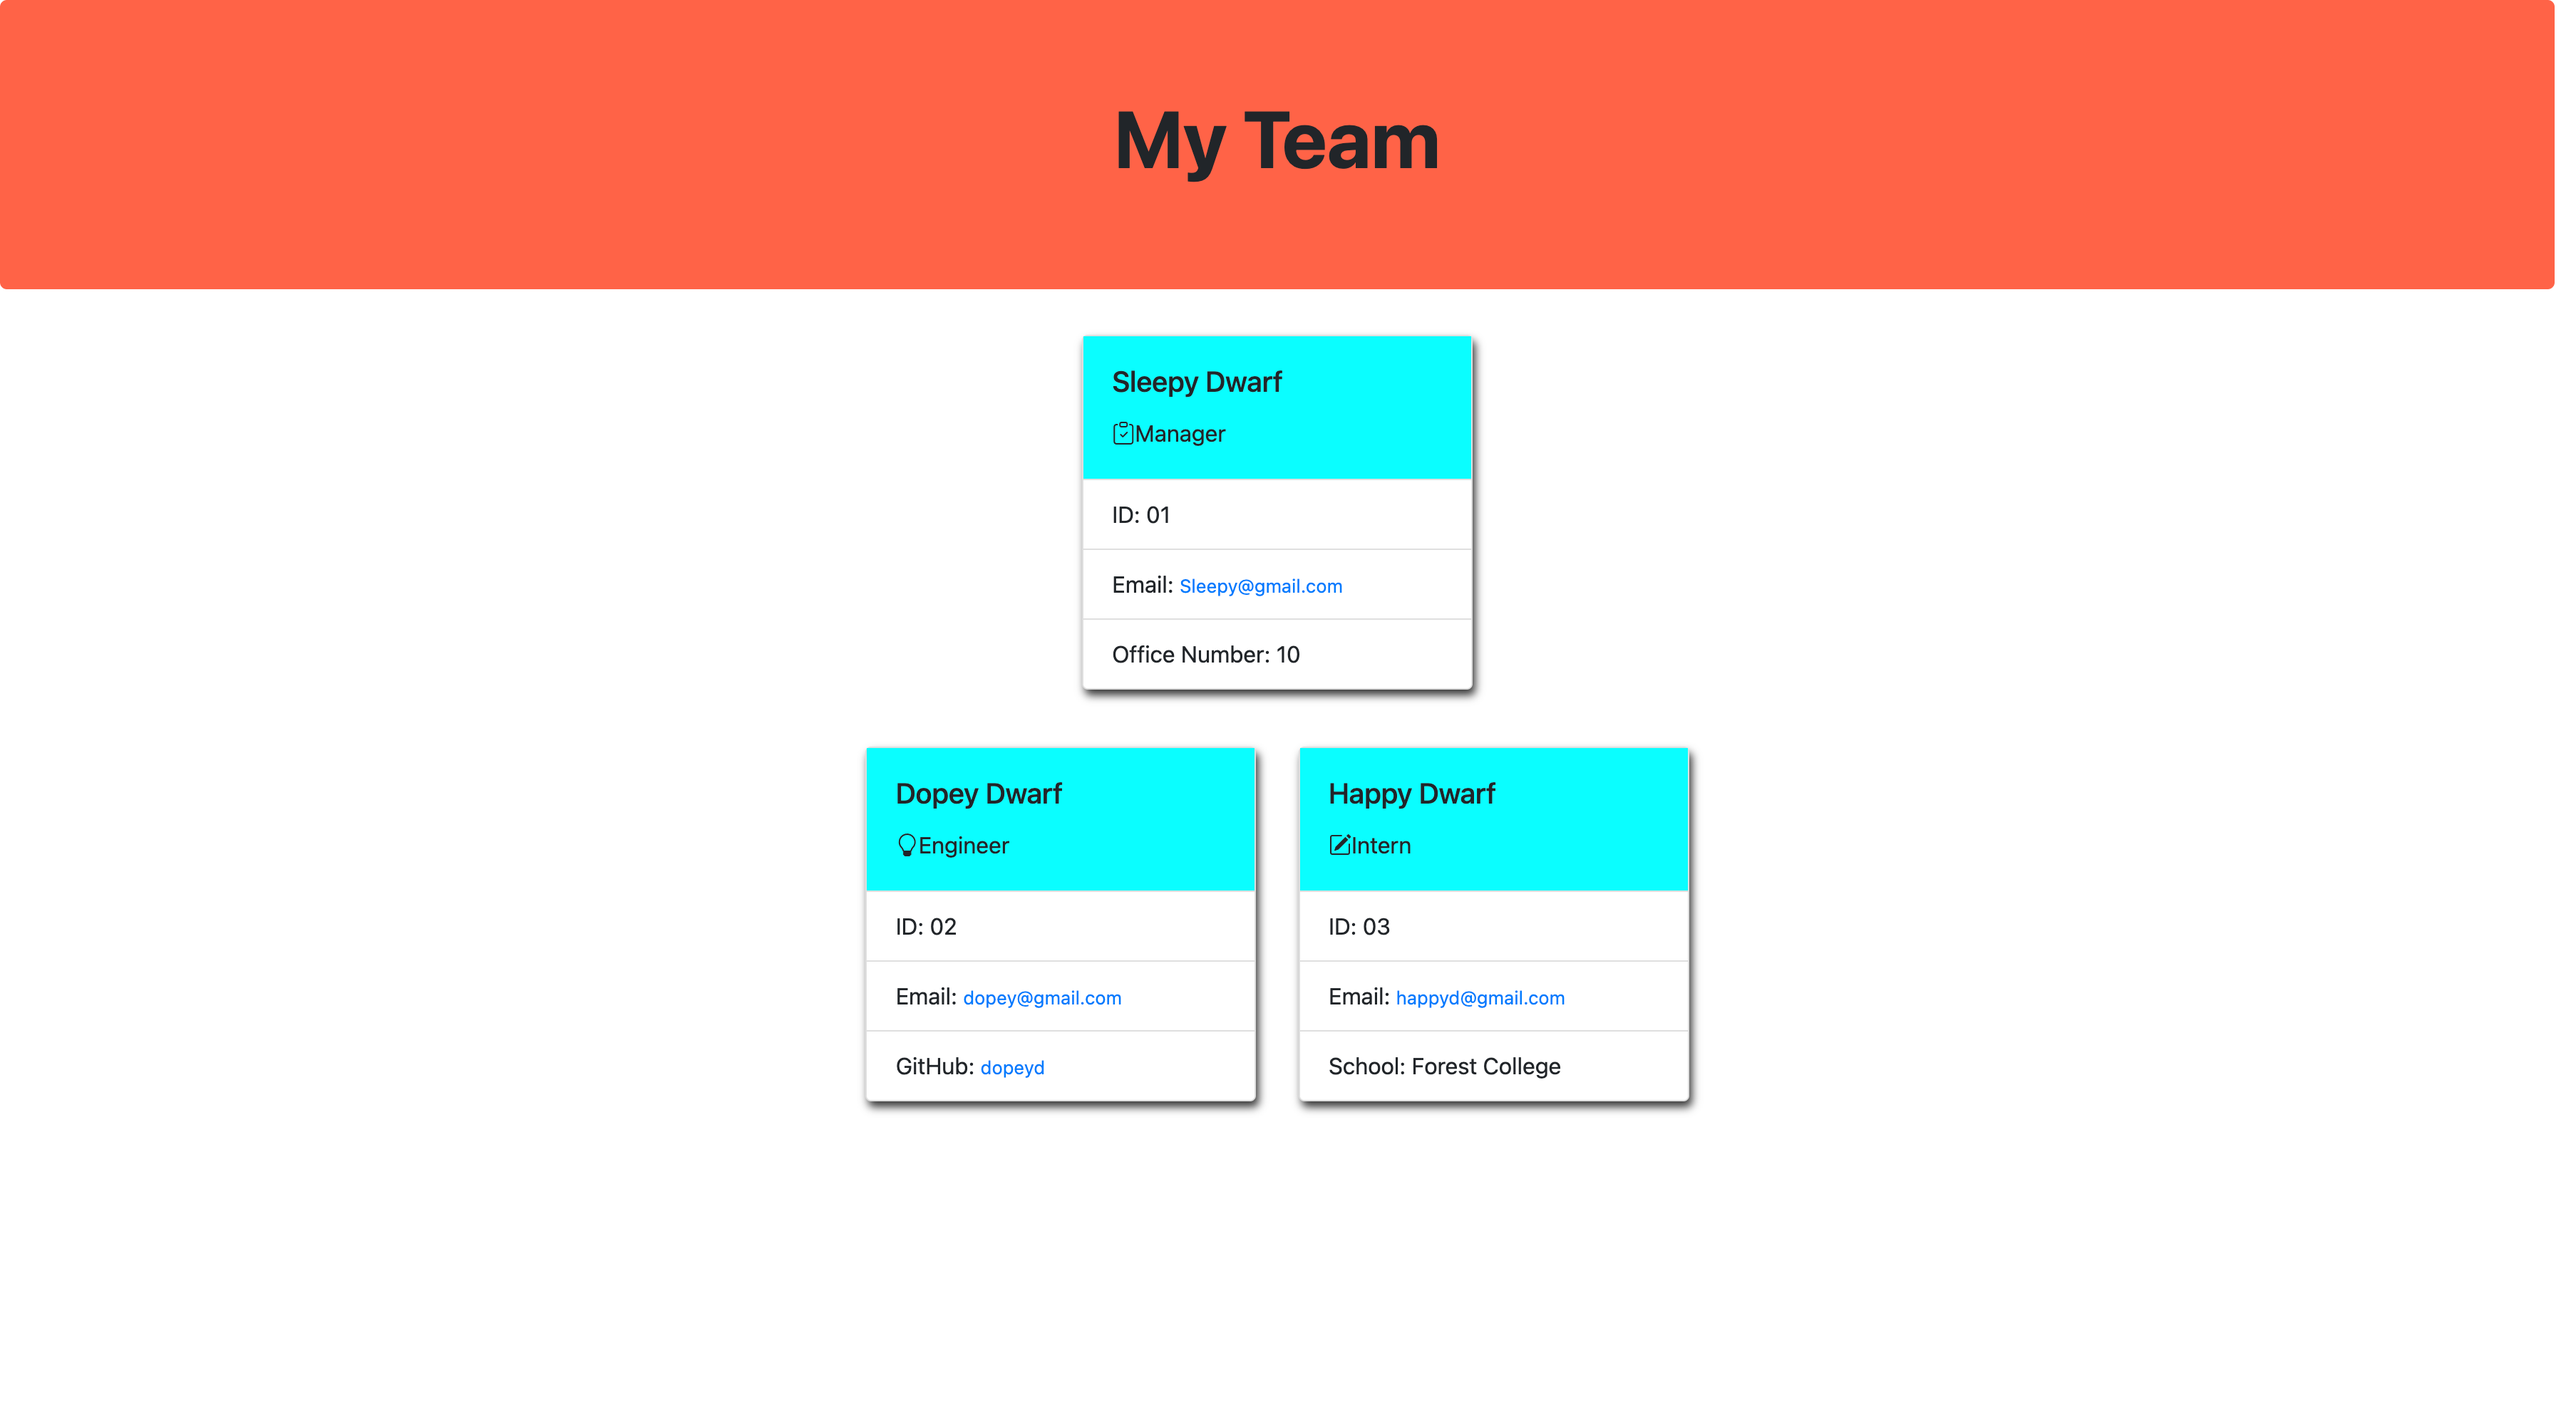
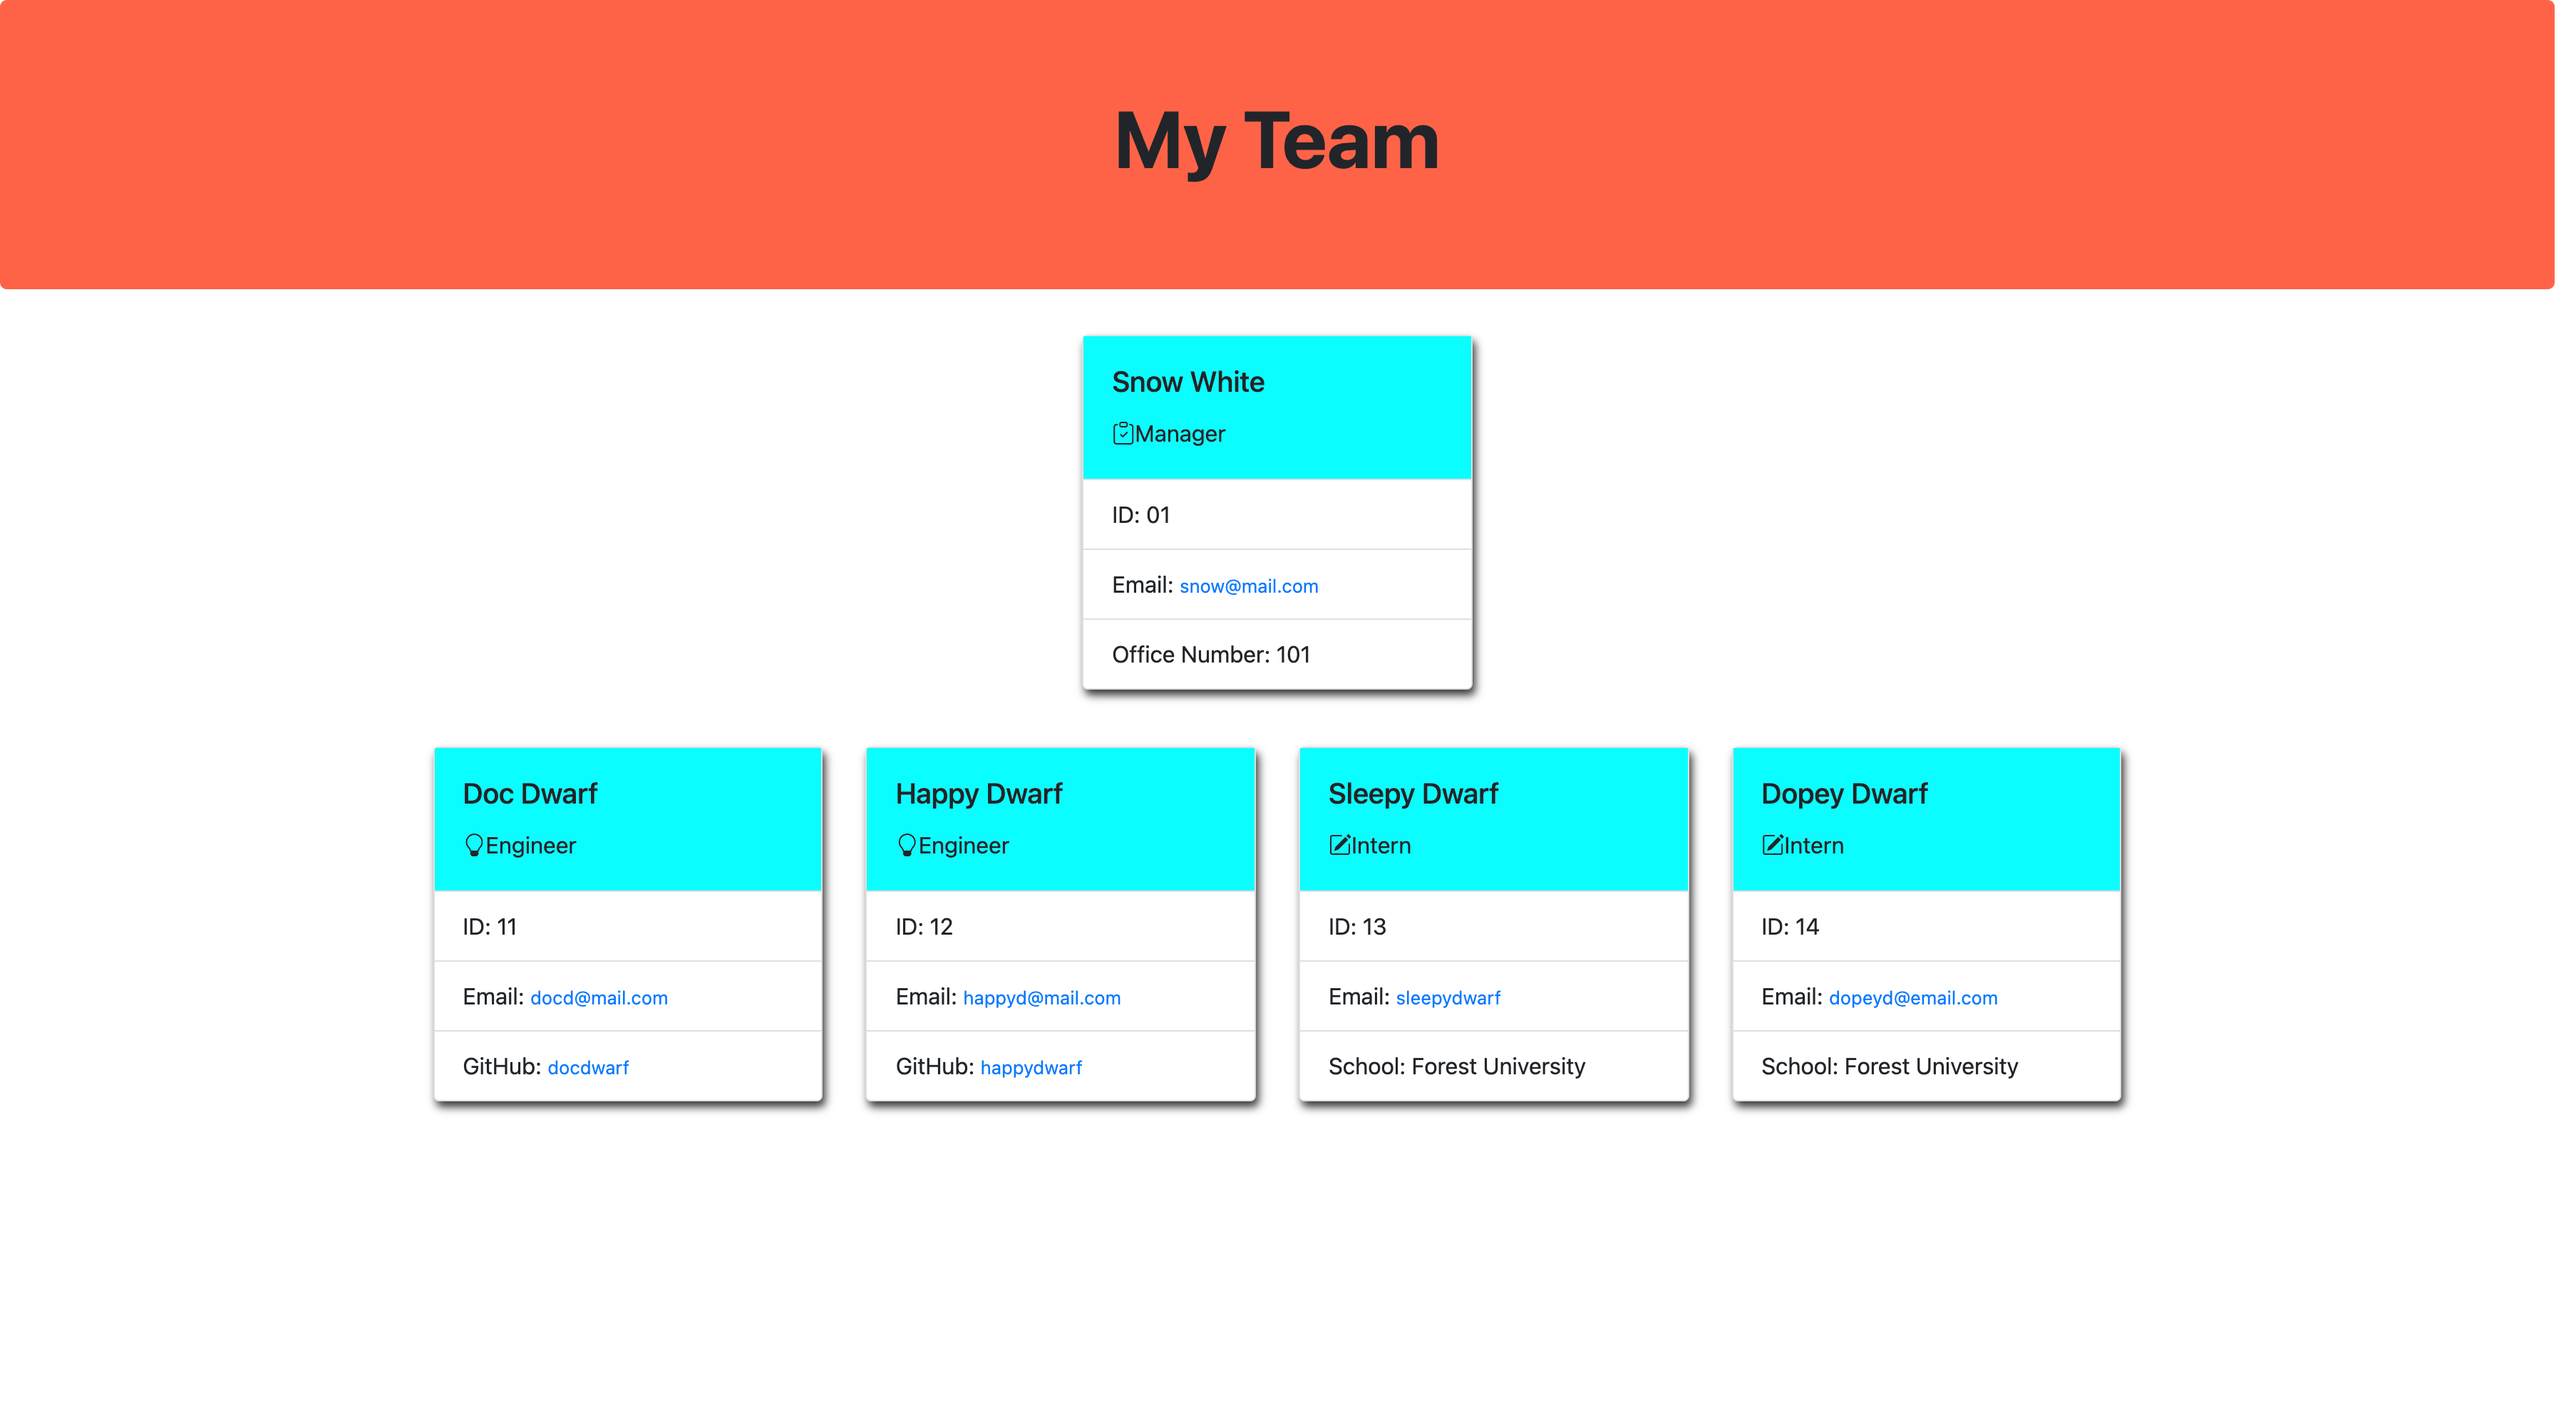
add demo

diff --git a/develop/dist/myTeam.html b/develop/dist/myTeam.html
@@ -24,14 +24,14 @@ crossorigin="anonymous"
 			<div class="col-2 cardCont">
 			<div class="card" >
 			<div class="card-body">
-			<h5 class="card-title">Sleepy Dwarf</h5>
+			<h5 class="card-title">King George</h5>
 			<p class="card-text"><i class="bi bi-clipboard-check"></i>Manager
 			</p>
 			</div>
 			<ul class="list-group list-group-flush">
-			<li class="list-group-item">ID: 01</li>
-			<li class="list-group-item">Email: <a href="mailto:Sleepy@gmail.com">Sleepy@gmail.com</a></li>
-			<li class="list-group-item">Office Number: 10</li>
+			<li class="list-group-item">ID: 100</li>
+			<li class="list-group-item">Email: <a href="mailto:king@email.com">king@email.com</a></li>
+			<li class="list-group-item">Office Number: 1000</li>
 			</ul>
 			</div>
 			</div>
@@ -42,33 +42,18 @@ crossorigin="anonymous"
 	<div class="col-2 cardCont">
 	<div class="card" >
 	<div class="card-body">
-	<h5 class="card-title">Dopey Dwarf</h5>
+	<h5 class="card-title">Queen Snow</h5>
 	<p class="card-text"><i class="bi bi-lightbulb"></i>Engineer
 	</p>
 	</div>
 	<ul class="list-group list-group-flush">
-	<li class="list-group-item">ID: 02</li>
-	<li class="list-group-item">Email: <a href="mailto:dopey@gmail.com">dopey@gmail.com</a></li>
-	<li class="list-group-item">GitHub: <a href="https://github.com/dopeyd">dopeyd</a></li>
+	<li class="list-group-item">ID: 101</li>
+	<li class="list-group-item">Email: <a href="mailto:queen@email.com">queen@email.com</a></li>
+	<li class="list-group-item">GitHub: <a href="https://github.com/queen2">queen2</a></li>
 	</ul>
 	</div>
 	</div>
-				
-<div class="col-2 cardCont">
-<div class="card" >
-<div class="card-body">
-<h5 class="card-title">Happy Dwarf</h5>
-<p class="card-text"><i class="bi bi-pencil-square"></i>Intern
-</p>
-</div>
-<ul class="list-group list-group-flush">
-<li class="list-group-item">ID: 03</li>
-<li class="list-group-item">Email: <a href="mailto:happyd@gmail.com">happyd@gmail.com</a></li>
-<li class="list-group-item">School: Forest College</li>
-</ul>
-</div>
-</div>
-
+	
 </div>
 </body>
 </html>

diff --git a/develop/_tests_/engineer.test.js b/develop/_tests_/engineer.test.js
@@ -1,4 +1,4 @@
-const Engineer = require("../../lib/Engineer");
+const Engineer = require("../lib/Engineer");
 
 describe("Engineer", () => {
   describe("getName", () => {

diff --git a/develop/_tests_/manager.test.js b/develop/_tests_/manager.test.js
@@ -1,4 +1,4 @@
-const Manager = require("../../lib/Manager");
+const Manager = require("../lib/Manager");
 
 describe("Manager", () => {
   describe("getName", () => {

diff --git a/README.md b/README.md
@@ -23,6 +23,9 @@ The app runs from the 'node index' command line command.
 
 Open the index.js file in the current terminal and then run 'node index'.
 ![HTML webpage titled “My Team”](./assets/myTeamScreenshot.png)
+Demonstration of app
+[Demonstration](https://watch.screencastify.com/v/TvfxKNvxkGAekP3GWSUo)
+
 ## License
 
 ![License](https://img.shields.io/badge/License-MIT-yellow.svg)
